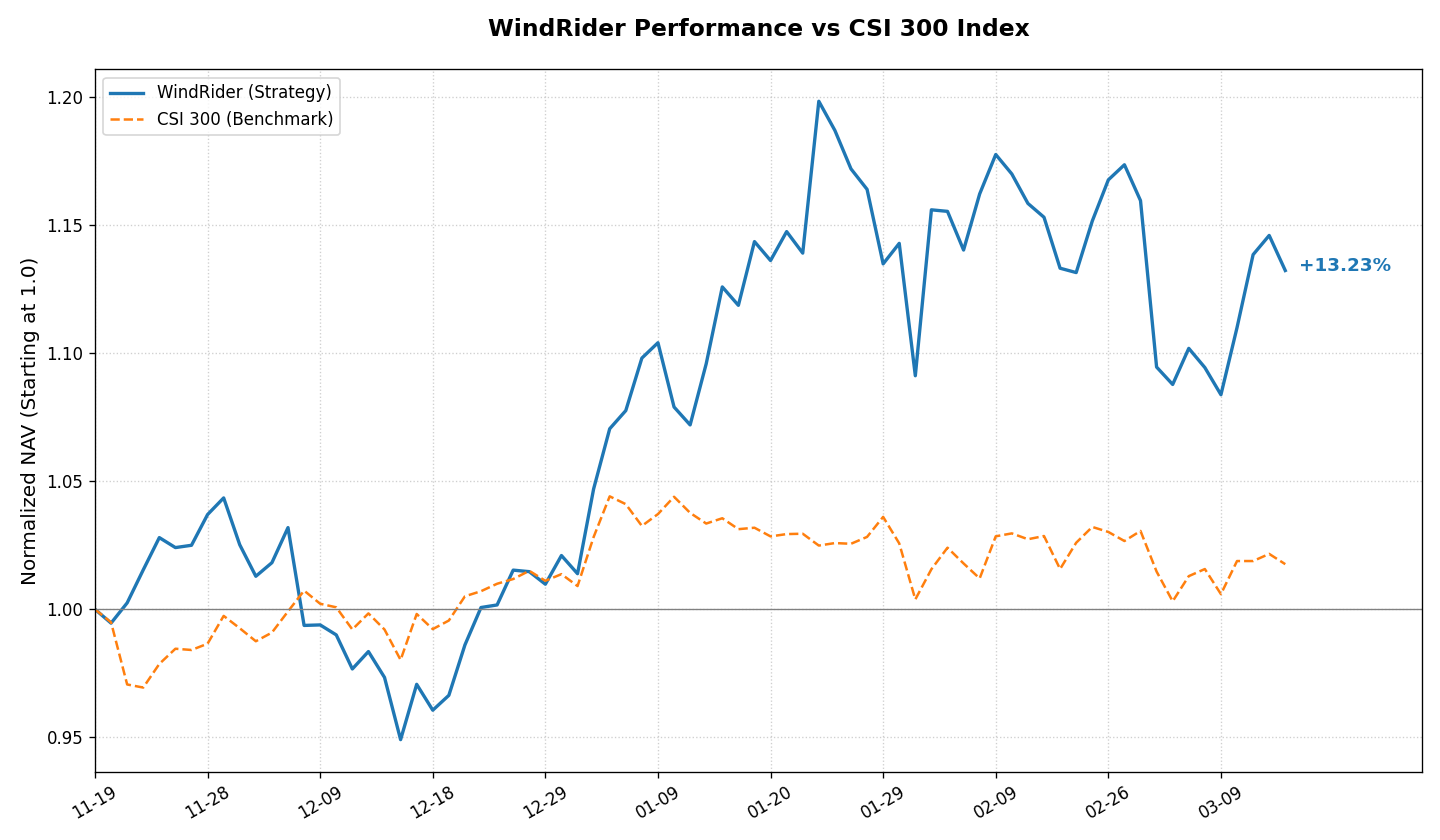
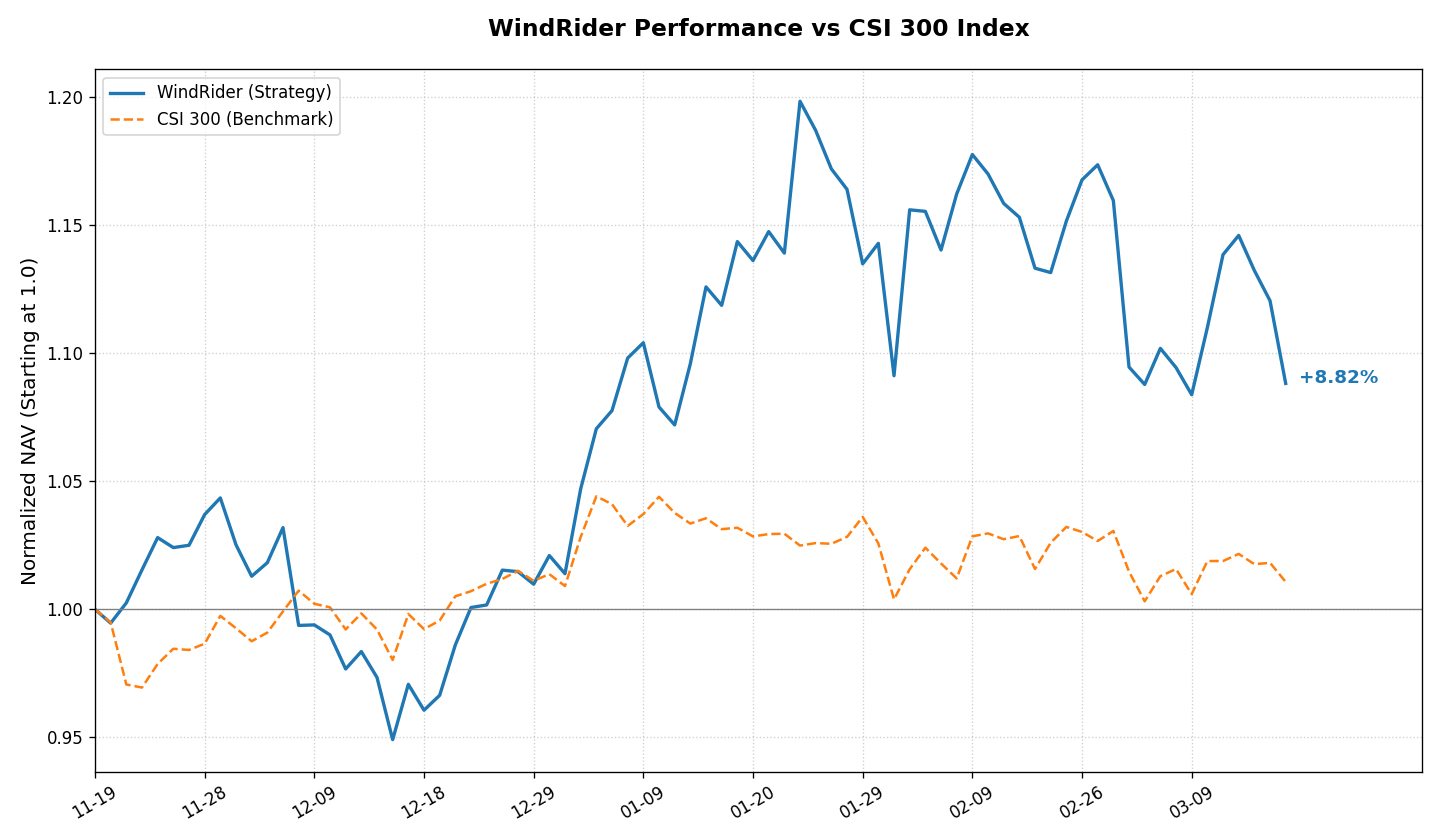
Updated Hugo site content

diff --git a/public/investment/position/index.html b/public/investment/position/index.html
@@ -66,8 +66,8 @@
   <meta property="og:locale" content="zh-cn">
   <meta property="og:type" content="article">
     <meta property="article:section" content="investment">
-    <meta property="article:published_time" content="2026-03-13T23:13:28+08:00">
-    <meta property="article:modified_time" content="2026-03-13T23:13:28+08:00">
+    <meta property="article:published_time" content="2026-03-17T15:10:04+08:00">
+    <meta property="article:modified_time" content="2026-03-17T15:10:04+08:00">
 <meta name="twitter:card" content="summary">
 <meta name="twitter:title" content="如山-股票组合持仓 /// Position">
 <meta name="twitter:description" content="如山股票组合持仓">
@@ -103,11 +103,11 @@
   "keywords": [
     
   ],
-  "articleBody": " 风舵股票组合 /// 每日持仓 WindRider Equity Portfolio 净值简报 (截至: 2026-03-13)\n指数代码： WDR.EQ 成立日期： 2025-11-19 最新净值： 1.1323 今日涨跌： -1.20% ===========================\n核心表现 累计收益： +13.23% 年化收益： +48.86% 最大回撤： -9.56% 基准点位： 4669.14 (CSI300) 策略状态： 已运行 115 天 持仓明细 股票名称 成本价 现价 盈亏 占比 先导智能 300450 52.17 51.90 -0.51% 98.17% 收益率对比曲线 声明：本页面数据为实盘记录，持仓数据每日收盘后更新。\n数据仅供技术交流，不构成投资建议。\n",
+  "articleBody": " 风舵股票组合 /// 每日持仓 WindRider Equity Portfolio 净值简报 (截至: 2026-03-17)\n指数代码： WDR.EQ 成立日期： 2025-11-19 最新净值： 1.0882 今日涨跌： -2.88% ===========================\n核心表现 累计收益： +8.82% 年化收益： +29.88% 最大回撤： -9.56% 基准点位： 4637.44 (CSI300) 策略状态： 已运行 119 天 持仓明细 股票名称 成本价 现价 盈亏 占比 先导智能 300450 52.17 49.84 -4.46% 98.09% 收益率对比曲线 声明：本页面数据为实盘记录，持仓数据每日收盘后更新。\n数据仅供技术交流，不构成投资建议。\n",
   "wordCount" : "47",
   "inLanguage": "zh-cn",
-  "datePublished": "2026-03-13T23:13:28+08:00",
-  "dateModified": "2026-03-13T23:13:28+08:00",
+  "datePublished": "2026-03-17T15:10:04+08:00",
+  "dateModified": "2026-03-17T15:10:04+08:00",
   "mainEntityOfPage": {
     "@type": "WebPage",
     "@id": "https://hankou.com/investment/position/"
@@ -196,7 +196,7 @@
     <div class="post-description">
       如山股票组合持仓
     </div>
-    <div class="post-meta"><span title='2026-03-13 23:13:28 +0800 CST'>March 13, 2026</span>
+    <div class="post-meta"><span title='2026-03-17 15:10:04 +0800 CST'>March 17, 2026</span>
 
 </div>
   </header> 
@@ -205,7 +205,7 @@
 </style>
 <h3 id="风舵股票组合--每日持仓">风舵股票组合   <span style="color: #E63946; font-weight: bold;">/</span><span style="color: #F1A73E; font-weight: bold;">/</span><span style="color: #000091; font-weight: bold;">/</span>   每日持仓<a hidden class="anchor" aria-hidden="true" href="#风舵股票组合--每日持仓">#</a></h3>
 <p>WindRider Equity Portfolio <br>
-净值简报 <small>(截至: 2026-03-13)</small></p>
+净值简报 <small>(截至: 2026-03-17)</small></p>
 <table>
   <thead>
       <tr>
@@ -224,11 +224,11 @@
       </tr>
       <tr>
           <td style="text-align: left"><strong>最新净值：</strong></td>
-          <td style="text-align: left">1.1323</td>
+          <td style="text-align: left">1.0882</td>
       </tr>
       <tr>
           <td style="text-align: left"><strong>今日涨跌：</strong></td>
-          <td style="text-align: left">-1.20%</td>
+          <td style="text-align: left">-2.88%</td>
       </tr>
   </tbody>
 </table>
@@ -243,11 +243,11 @@
   <tbody>
       <tr>
           <td style="text-align: left"><strong>累计收益：</strong></td>
-          <td style="text-align: left">+13.23%</td>
+          <td style="text-align: left">+8.82%</td>
       </tr>
       <tr>
           <td style="text-align: left"><strong>年化收益：</strong></td>
-          <td style="text-align: left">+48.86%</td>
+          <td style="text-align: left">+29.88%</td>
       </tr>
       <tr>
           <td style="text-align: left"><strong>最大回撤：</strong></td>
@@ -255,11 +255,11 @@
       </tr>
       <tr>
           <td style="text-align: left"><strong>基准点位：</strong></td>
-          <td style="text-align: left">4669.14 (CSI300)</td>
+          <td style="text-align: left">4637.44 (CSI300)</td>
       </tr>
       <tr>
           <td style="text-align: left"><strong>策略状态：</strong></td>
-          <td style="text-align: left">已运行 115 天</td>
+          <td style="text-align: left">已运行 119 天</td>
       </tr>
   </tbody>
 </table>
@@ -279,9 +279,9 @@
       <tr>
           <td style="text-align: left">先导智能 <small>300450</small></td>
           <td style="text-align: left">52.17</td>
-          <td style="text-align: left">51.90</td>
-          <td style="text-align: left"><span style="color:#2A9D8F">-0.51%</span></td>
-          <td style="text-align: left">98.17%</td>
+          <td style="text-align: left">49.84</td>
+          <td style="text-align: left"><span style="color:#2A9D8F">-4.46%</span></td>
+          <td style="text-align: left">98.09%</td>
           <td></td>
       </tr>
   </tbody>

diff --git a/public/investment/windrider-1/index.html b/public/investment/windrider-1/index.html
@@ -66,8 +66,8 @@
   <meta property="og:locale" content="zh-cn">
   <meta property="og:type" content="article">
     <meta property="article:section" content="investment">
-    <meta property="article:published_time" content="2026-03-13T15:15:03+08:00">
-    <meta property="article:modified_time" content="2026-03-13T15:15:03+08:00">
+    <meta property="article:published_time" content="2026-03-17T23:03:41+08:00">
+    <meta property="article:modified_time" content="2026-03-17T23:03:41+08:00">
 <meta name="twitter:card" content="summary">
 <meta name="twitter:title" content="风舵1号 (WindRider I)  /// 指数">
 <meta name="twitter:description" content="商品期货分形摆动策略实盘">
@@ -103,11 +103,11 @@
   "keywords": [
     
   ],
-  "articleBody": " 风舵1号 (WindRider I) /// 指数 商品期货分形摆动策略实盘\n净值简报 (截至: 2026-03-13)\n指数代码： WDR1.CTA 起步日期： 2026-01-05 最新净值： 0.6536 今日涨跌： -8.61% ===========================\n核心指标 累计涨跌： -34.64% 年化收益： -90.14% 最大回撤： -49.85% 卡玛比率： -1.81 策略状态： 已运行 68 天 净值曲线 声明：本页面数据为实盘记录，持仓数据每日收盘后更新。\n数据仅供技术交流，不构成投资建议。\n",
+  "articleBody": " 风舵1号 (WindRider I) /// 指数 商品期货分形摆动策略实盘\n净值简报 (截至: 2026-03-17)\n指数代码： WDR1.CTA 起步日期： 2026-01-05 最新净值： 0.7224 今日涨跌： +3.16% ===========================\n核心指标 累计涨跌： -27.76% 年化收益： -81.21% 最大回撤： -49.85% 卡玛比率： -1.63 策略状态： 已运行 72 天 净值曲线 声明：本页面数据为实盘记录，持仓数据每日收盘后更新。\n数据仅供技术交流，不构成投资建议。\n",
   "wordCount" : "34",
   "inLanguage": "zh-cn",
-  "datePublished": "2026-03-13T15:15:03+08:00",
-  "dateModified": "2026-03-13T15:15:03+08:00",
+  "datePublished": "2026-03-17T23:03:41+08:00",
+  "dateModified": "2026-03-17T23:03:41+08:00",
   "mainEntityOfPage": {
     "@type": "WebPage",
     "@id": "https://hankou.com/investment/windrider-1/"
@@ -196,7 +196,7 @@
     <div class="post-description">
       商品期货分形摆动策略实盘
     </div>
-    <div class="post-meta"><span title='2026-03-13 15:15:03 +0800 CST'>March 13, 2026</span>
+    <div class="post-meta"><span title='2026-03-17 23:03:41 +0800 CST'>March 17, 2026</span>
 
 </div>
   </header> 
@@ -208,7 +208,7 @@
 </style>
 <h3 id="风舵1号-windrider-i--指数">风舵1号 (WindRider I)   <span style="color: #E63946; font-weight: bold;">/</span><span style="color: #F1A73E; font-weight: bold;">/</span><span style="color: #000091; font-weight: bold;">/</span>   指数<a hidden class="anchor" aria-hidden="true" href="#风舵1号-windrider-i--指数">#</a></h3>
 <p>商品期货分形摆动策略实盘<br>
-净值简报 <small>(截至: 2026-03-13)</small></p>
+净值简报 <small>(截至: 2026-03-17)</small></p>
 <table>
   <thead>
       <tr>
@@ -227,11 +227,11 @@
       </tr>
       <tr>
           <td style="text-align: left"><strong>最新净值：</strong></td>
-          <td style="text-align: left">0.6536</td>
+          <td style="text-align: left">0.7224</td>
       </tr>
       <tr>
           <td style="text-align: left"><strong>今日涨跌：</strong></td>
-          <td style="text-align: left">-8.61%</td>
+          <td style="text-align: left">+3.16%</td>
       </tr>
   </tbody>
 </table>
@@ -246,11 +246,11 @@
   <tbody>
       <tr>
           <td style="text-align: left"><strong>累计涨跌：</strong></td>
-          <td style="text-align: left">-34.64%</td>
+          <td style="text-align: left">-27.76%</td>
       </tr>
       <tr>
           <td style="text-align: left"><strong>年化收益：</strong></td>
-          <td style="text-align: left">-90.14%</td>
+          <td style="text-align: left">-81.21%</td>
       </tr>
       <tr>
           <td style="text-align: left"><strong>最大回撤：</strong></td>
@@ -258,11 +258,11 @@
       </tr>
       <tr>
           <td style="text-align: left"><strong>卡玛比率：</strong></td>
-          <td style="text-align: left">-1.81</td>
+          <td style="text-align: left">-1.63</td>
       </tr>
       <tr>
           <td style="text-align: left"><strong>策略状态：</strong></td>
-          <td style="text-align: left">已运行 68 天</td>
+          <td style="text-align: left">已运行 72 天</td>
       </tr>
   </tbody>
 </table>

diff --git a/public/investment/index.html b/public/investment/index.html
@@ -151,26 +151,26 @@
 
 <article class="post-entry"> 
   <header class="entry-header">
-    <h2 class="entry-hint-parent">如山-股票组合持仓 /// Position
-    </h2>
-  </header>
-  <div class="entry-content">
-    <p>主动管理型股票组合。对标沪深300指数，采用基本面选股策略。</p>
-  </div>
-  <footer class="entry-footer"><span title='2026-03-13 23:13:28 +0800 CST'>March 13, 2026</span></footer>
-  <a class="entry-link" aria-label="post link to 如山-股票组合持仓 /// Position" href="https://hankou.com/investment/position/"></a>
-</article>
-
-<article class="post-entry"> 
-  <header class="entry-header">
     <h2 class="entry-hint-parent">风舵1号 (WindRider I)  /// 指数
     </h2>
   </header>
   <div class="entry-content">
     <p>商品期货分形摆动策略，实盘最新净值与核心风险指标。</p>
   </div>
-  <footer class="entry-footer"><span title='2026-03-13 15:15:03 +0800 CST'>March 13, 2026</span></footer>
+  <footer class="entry-footer"><span title='2026-03-17 23:03:41 +0800 CST'>March 17, 2026</span></footer>
   <a class="entry-link" aria-label="post link to 风舵1号 (WindRider I)  /// 指数" href="https://hankou.com/investment/windrider-1/"></a>
+</article>
+
+<article class="post-entry"> 
+  <header class="entry-header">
+    <h2 class="entry-hint-parent">如山-股票组合持仓 /// Position
+    </h2>
+  </header>
+  <div class="entry-content">
+    <p>主动管理型股票组合。对标沪深300指数，采用基本面选股策略。</p>
+  </div>
+  <footer class="entry-footer"><span title='2026-03-17 15:10:04 +0800 CST'>March 17, 2026</span></footer>
+  <a class="entry-link" aria-label="post link to 如山-股票组合持仓 /// Position" href="https://hankou.com/investment/position/"></a>
 </article>
     </main>
     

diff --git a/content/investment/position.md b/content/investment/position.md
@@ -1,8 +1,8 @@
 +++
 title = "如山-股票组合持仓 /// Position"
 summary = "主动管理型股票组合。对标沪深300指数，采用基本面选股策略。"
-date = 2026-03-17T15:10:04+08:00
-lastmod = 2026-03-17T15:10:04+08:00
+date = 2026-03-18T15:10:05+08:00
+lastmod = 2026-03-18T15:10:05+08:00
 draft = false
 description = "如山股票组合持仓"
 +++
@@ -12,29 +12,29 @@ description = "如山股票组合持仓"
 
 ### 风舵股票组合 &nbsp;&nbsp;<span style="color: #E63946; font-weight: bold;">/</span><span style="color: #F1A73E; font-weight: bold;">/</span><span style="color: #000091; font-weight: bold;">/</span>&nbsp;&nbsp; 每日持仓
 WindRider Equity Portfolio <br>
-净值简报 <small>(截至: 2026-03-17)</small>
+净值简报 <small>(截至: 2026-03-18)</small>
 
 |  |  |
 | :--- | :--- |
 | **指数代码：** | WDR.EQ |
 | **成立日期：** | 2025-11-19 |
-| **最新净值：** | 1.0882 |
-| **今日涨跌：** | -2.88% |
+| **最新净值：** | 1.0809 |
+| **今日涨跌：** | -0.67% |
 
 ===========================
 
 | 核心表现 | |
 | :--- | :--- |
-| **累计收益：** | +8.82% |
-| **年化收益：** | +29.88% |
-| **最大回撤：** | -9.56% |
-| **基准点位：** | 4637.44 (CSI300) |
-| **策略状态：** | 已运行 119 天 |
+| **累计收益：** | +8.09% |
+| **年化收益：** | +26.95% |
+| **最大回撤：** | -9.80% |
+| **基准点位：** | 4658.33 (CSI300) |
+| **策略状态：** | 已运行 120 天 |
 
 ### 持仓明细
 | 股票名称 | 成本价 | 现价 | 盈亏 | 占比 |
 | :--- | :--- | :--- | :--- | :--- | :--- |
-| 先导智能 <small>300450</small> | 52.17 | 49.84 | <span style="color:#2A9D8F">-4.46%</span> | 98.09% |
+| 先导智能 <small>300450</small> | 52.17 | 49.50 | <span style="color:#2A9D8F">-5.11%</span> | 98.08% |
 
 <br>
 
